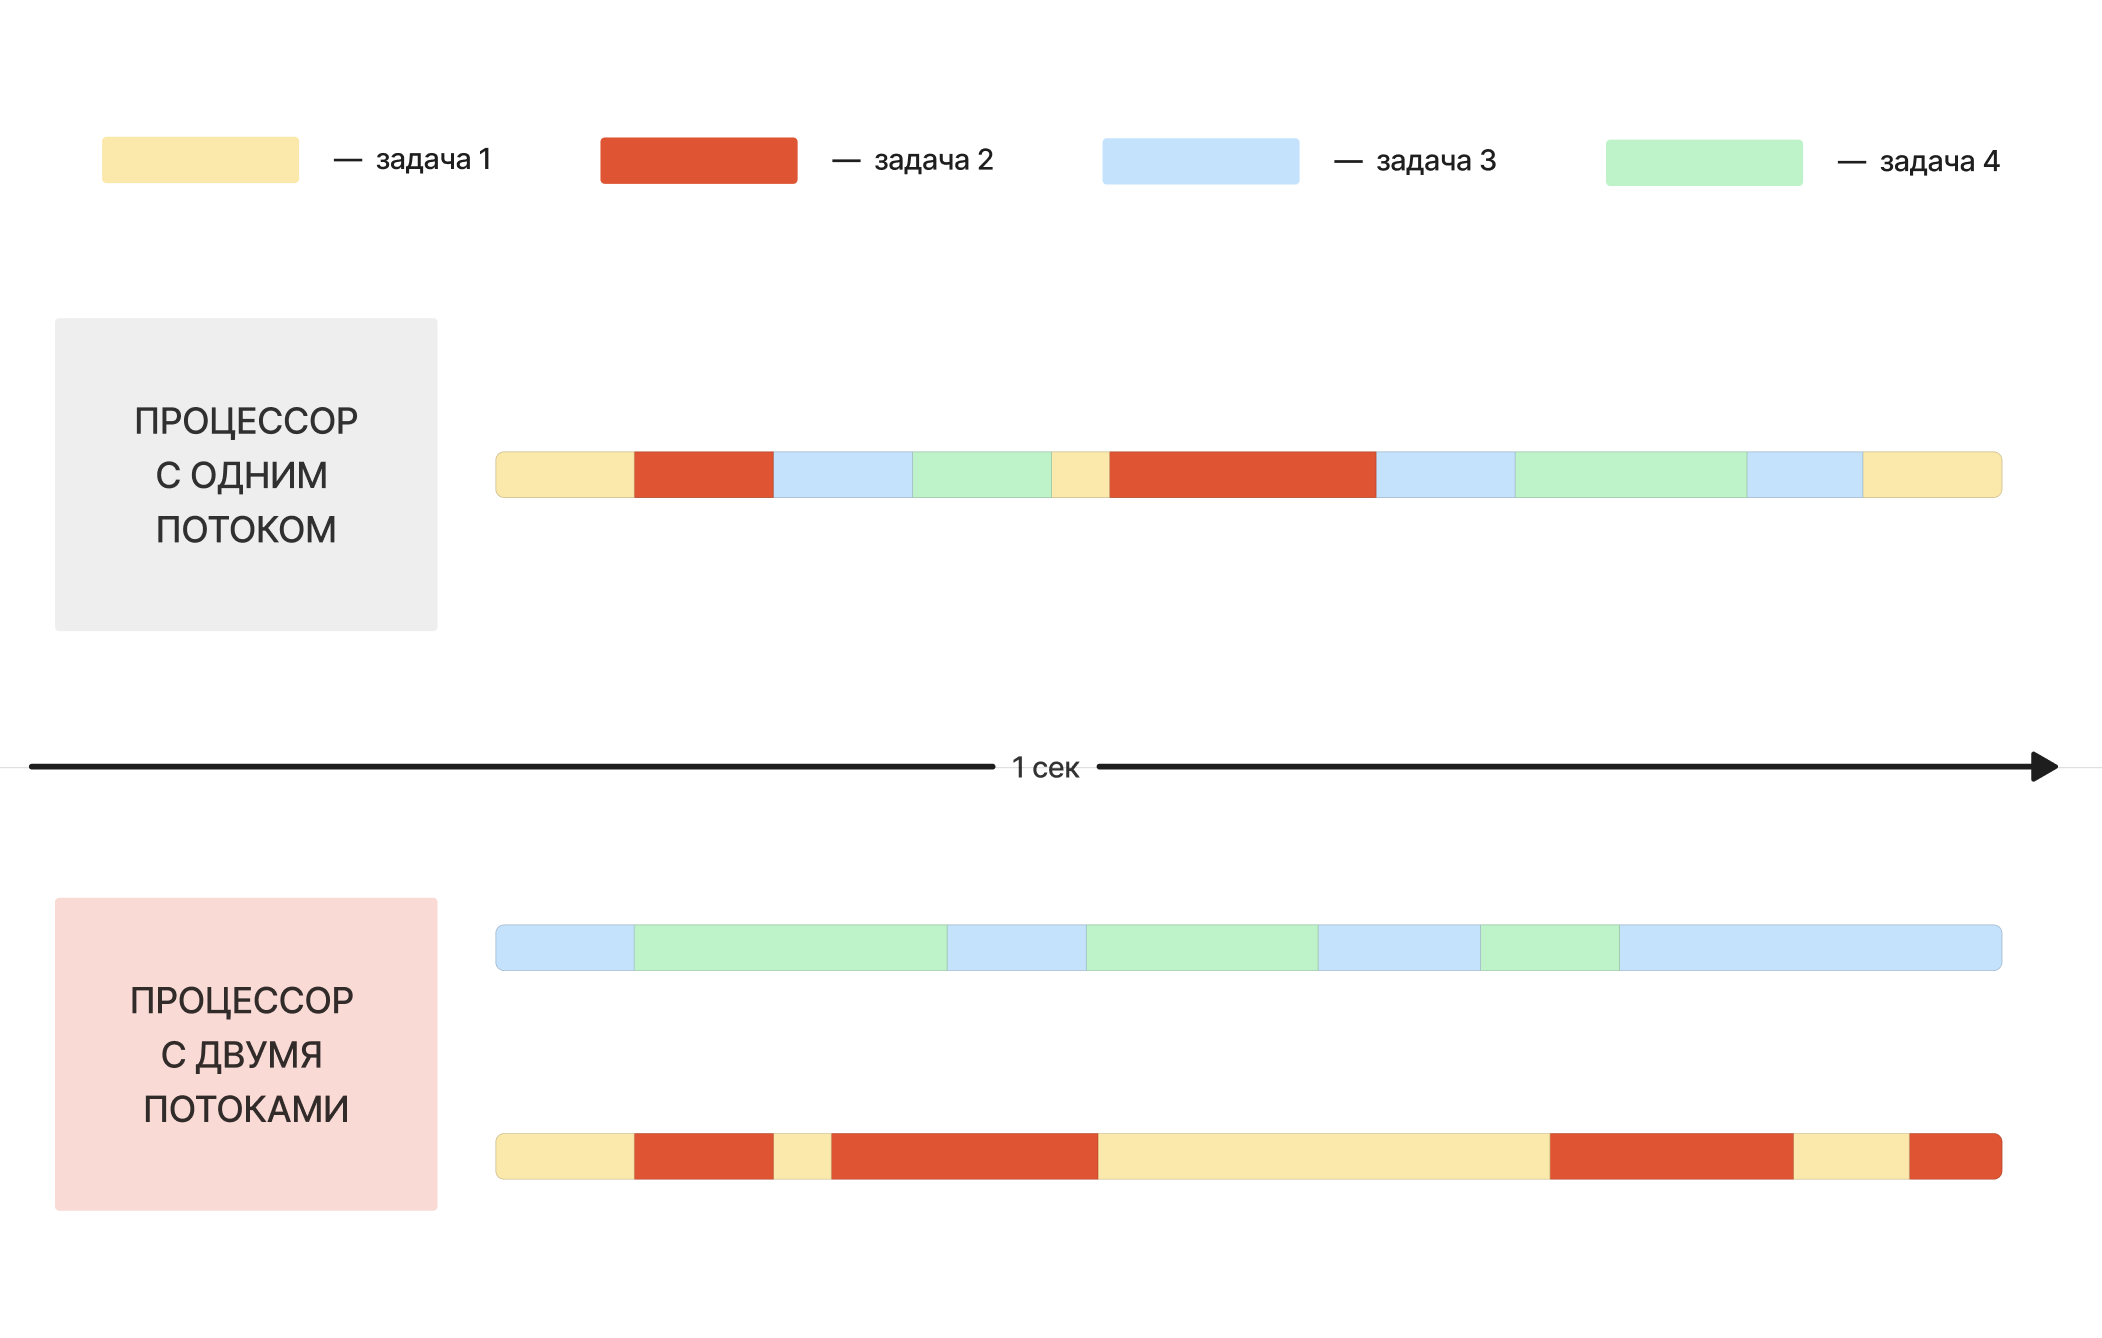
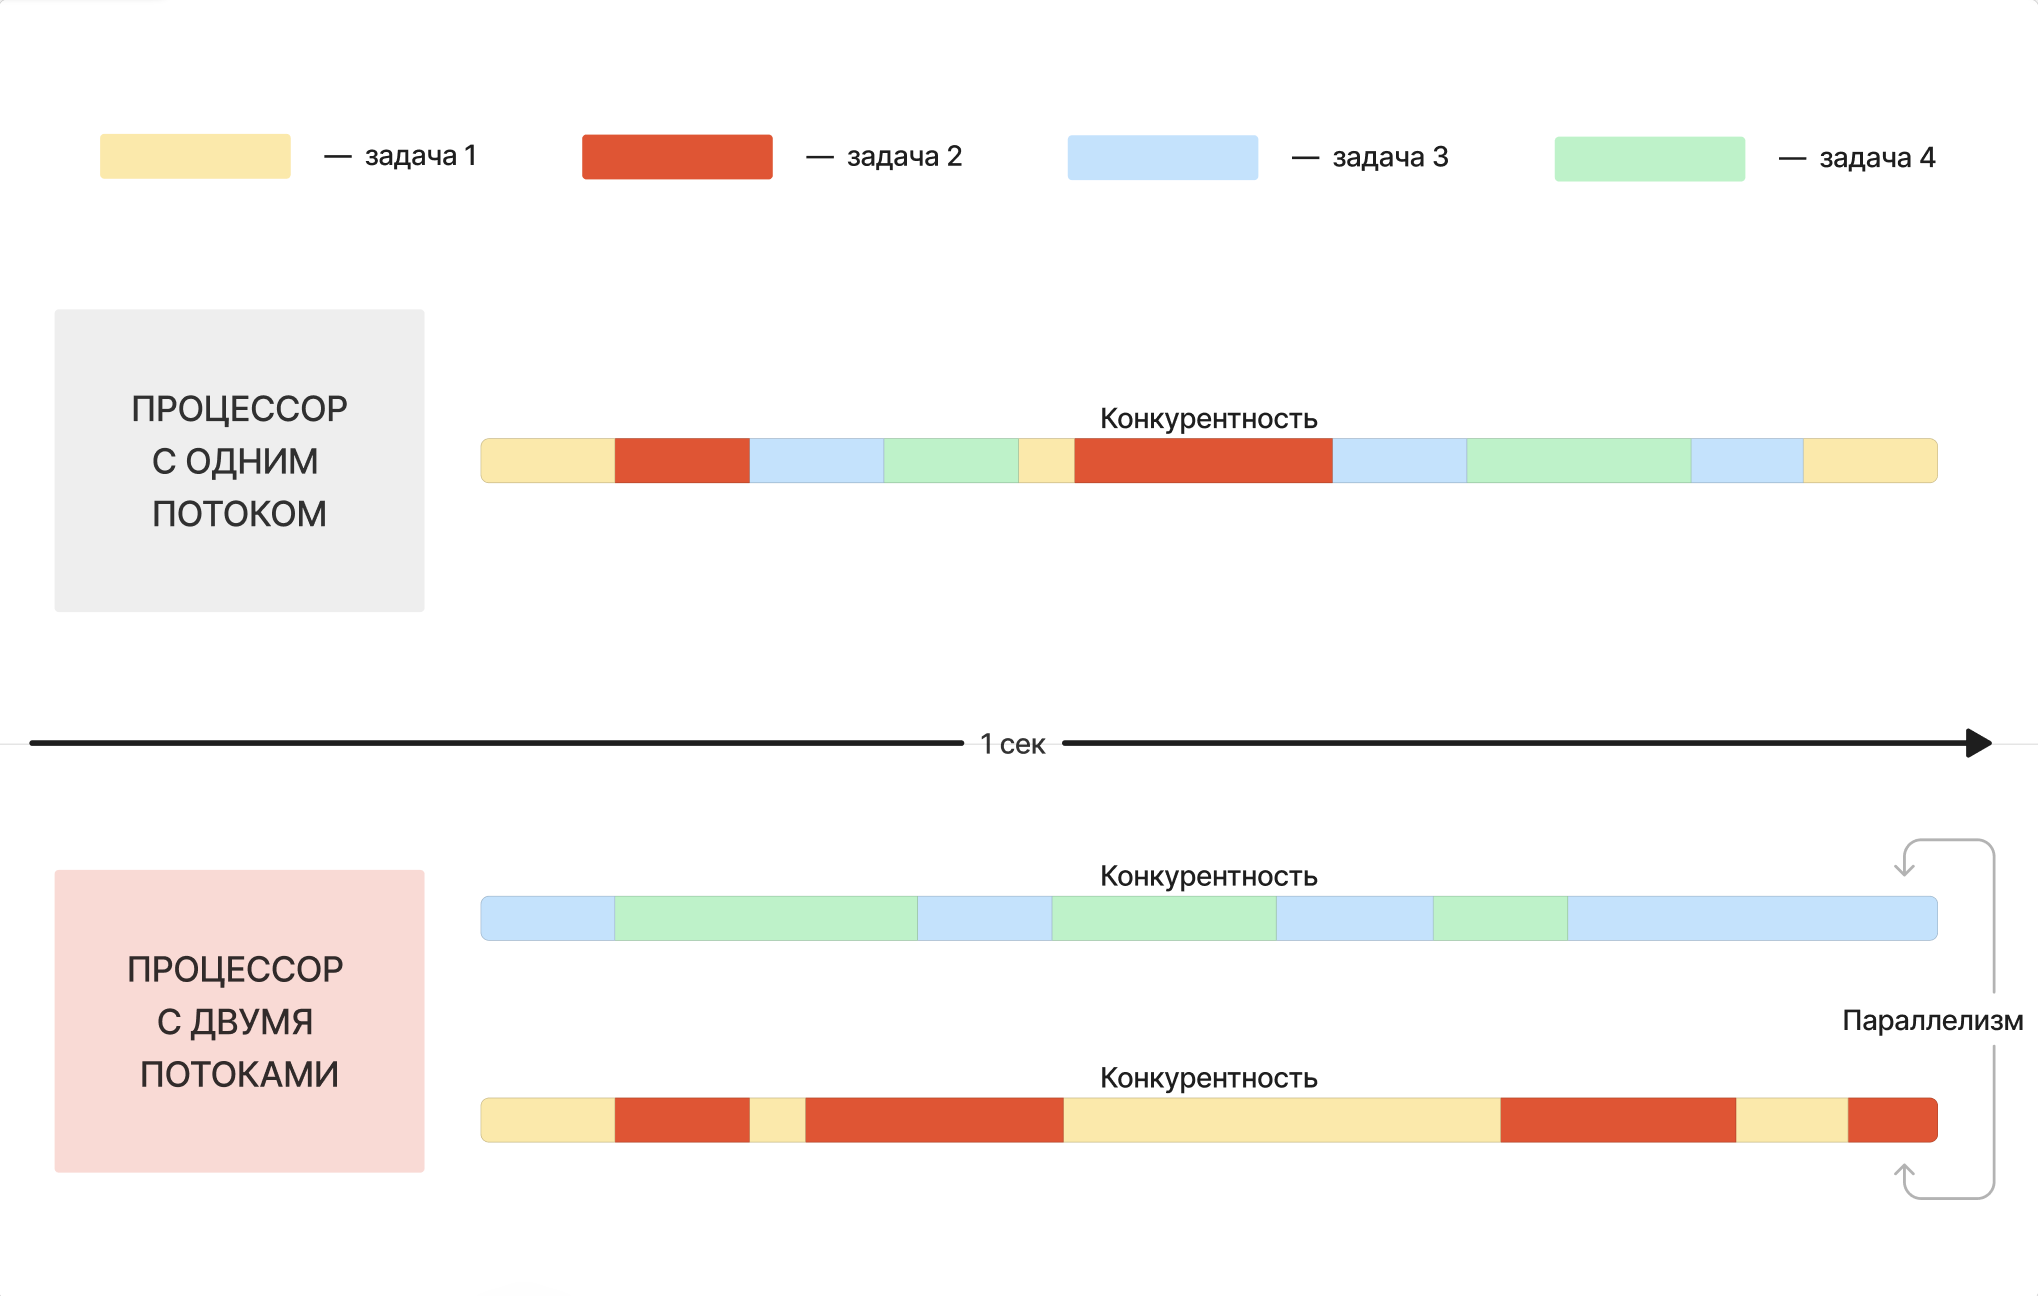
Update 2 files
- Main/Base/operating-systems.md
   - Main/Base/operating-systems-4.png

diff --git a/Main/Base/operating-systems.md b/Main/Base/operating-systems.md
@@ -335,9 +335,9 @@ title: "Операционные системы\_(доделать)"
 
 Планировщик ОС обеспечивает иллюзию параллельного выполнения множества потоков, за счёт быстрого переключения между потоками. Это называется **конкурентностью.**
 
-### **Конкурентность** 
+### **Конкурентность**
 
-Слово само за себя говорящее. Потоки **конкурируют** за процессорное время, постоянно перетягивая канат каждый в свою сторону, заставляя переключать контекст. 
+Слово само за себя говорящее. Потоки **конкурируют** за процессорное время, постоянно перетягивая канат каждый в свою сторону, заставляя переключать контекст.
 
 Например, потока ОС у нас два, а процессор одноядерный однопоточный. Эти 2 потока будут выполняться одновременно, но не параллельно, а постоянно переключаясь с одного на другой путём переключения контекста.
 
@@ -345,7 +345,7 @@ title: "Операционные системы\_(доделать)"
 
 ![](./operating-systems-4.png)
 
-На картинке представлено 2 процесса: первый однопоточный, второй имеет два потока.
+На картинке представлено 2 процессора: первый однопоточный, второй имеет два потока.
 
 Напоминаю, что потоки процессора - это не потоки ОС, но только один поток ОС может работать на одном потоке процессора, то есть соотношение 1 к 1. Правда, один поток процессора может переключаться между потоками ОС (решение принимает планировщик ОС).
 
